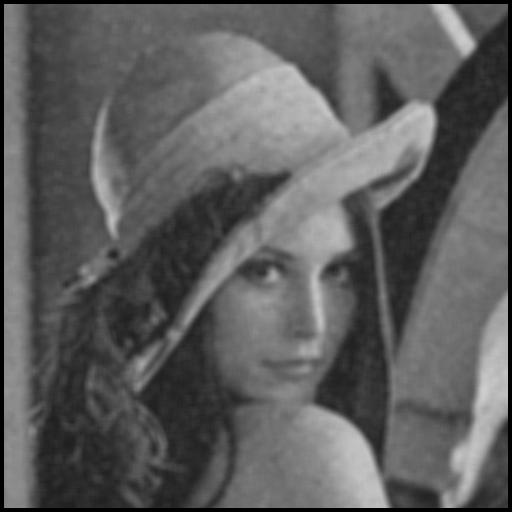
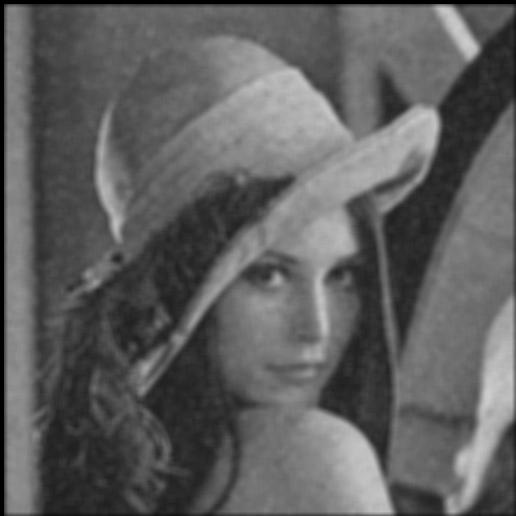
Did extra credit for Lab3

diff --git a/Lab 3/lab03.m b/Lab 3/lab03.m
@@ -1,6 +1,6 @@
 
-img1 = im2double(imread('lena_noisy.jpg'));
-img2 = im2double(imread('lena.jpg'));
+img1 = (imread('lena_noisy.jpg'));
+img2 = (imread('lena.jpg'));
 % 
 % 
 %% Median filter
@@ -12,18 +12,19 @@ imwrite(batch_3, 'median_3.jpg');
 imwrite(batch_5, 'median_5.jpg');
 
 %% Sobel filter
-%H = [1, 2, 1; 0, 0, 0; -1, -2, -1]; % horizontal edge
-H = [1, 0, -1; 2, 0, -2; 1, 0, -1]; % vertical edge
-img_sobel = sobel_filter(img2,H);
+HH = [1, 2, 1; 0, 0, 0; -1, -2, -1]; % horizontal edge
+HV = [1, 0, -1; 2, 0, -2; 1, 0, -1]; % vertical edge
+img_sobel = sobel_filter(img2,HV,3);
 imwrite(img_sobel, 'sobel_v.jpg');
+img_sobel = sobel_filter(img2,HH,3);
+imwrite(img_sobel, 'sobel_h.jpg');
 
 
 %% Gaussian filter
-%hsize = 5; sigma = 2;
-hsize = 9; sigma = 4;
-img_gaussian = gaussian_filter(img1, hsize, sigma);
+hsize5 = 5; sigma5 = 2;
+hsize9 = 9; sigma9 = 4;
+img_gaussian = gaussian_filter(img1, hsize5, sigma5);
+imwrite(img_gaussian, 'gaussian_5.jpg');
+img_gaussian = gaussian_filter(img1, hsize9, sigma9);
 imwrite(img_gaussian, 'gaussian_9.jpg');
 
-%% White Padding
-img_padded = white_padding(img1,3);
-imwrite(img_padded, 'white_padded.jpg');

diff --git a/Lab 3/sobel_filter.m b/Lab 3/sobel_filter.m
@@ -1,15 +1,20 @@
-function img_filtered = sobel_filter(img, kernel)
-    difference = 1;
-    img_filtered = zeros(512,512,3,'uint8');
-    for u = 1+difference:512-difference
-        for v = 1+difference:512-difference
+function img_filtered = sobel_filter(img, kernel, size)
+    difference = floor(size/2);
+    paddedSize = 512 + (2 * difference);
+    newImg = zeros(paddedSize,paddedSize,'uint8');
+    
+    newImg(difference+1:paddedSize-difference,difference+1:paddedSize-difference) = img;
+    
+    img_filtered = zeros(512,512,'uint8');
+    for u = 1+difference:512+difference
+        for v = 1+difference:512+difference
             x1 = v - difference; x2 = v + difference;
             y1 = u - difference; y2 = u + difference;
             
-            patch = img(y1:y2, x1:x2,:);
+            patch = newImg(y1:y2, x1:x2,:);
             
-            value = dot(patch(:),kernel(:));
-            img_filtered(u,v,:) = value*255;
+            value = dot(double(patch(:)),double(kernel(:)));
+            img_filtered(u,v) = value;
         end
     end
 end

diff --git a/Lab 3/gaussian_filter.m b/Lab 3/gaussian_filter.m
@@ -1,16 +1,4 @@
 function img_filtered = gaussian_filter(img, hsize, sigma)
     kernel = fspecial('gaussian', hsize, sigma);
-    difference = floor(hsize/2);
-    img_filtered = zeros(512,512,3,'uint8');
-    for u = 1+difference:512-difference
-        for v = 1+difference:512-difference
-            x1 = v - difference; x2 = v + difference;
-            y1 = u - difference; y2 = u + difference;
-            
-            patch = img(y1:y2, x1:x2,:);
-            
-            value = dot(patch(:),kernel(:));
-            img_filtered(u,v,:) = value*255 ;
-        end
-    end
+    img_filtered = sobel_filter(img,kernel, hsize);
 end

diff --git a/Lab 3/median_filter.m b/Lab 3/median_filter.m
@@ -9,7 +9,7 @@ function img_filtered = median_filter(img, patch_size)
             patch = img(y1:y2, x1:x2,:);
             
             value = median(patch(:));
-            img_filtered(u,v,:) = value*255;
+            img_filtered(u,v,:) = value;
         end
     end
 end
